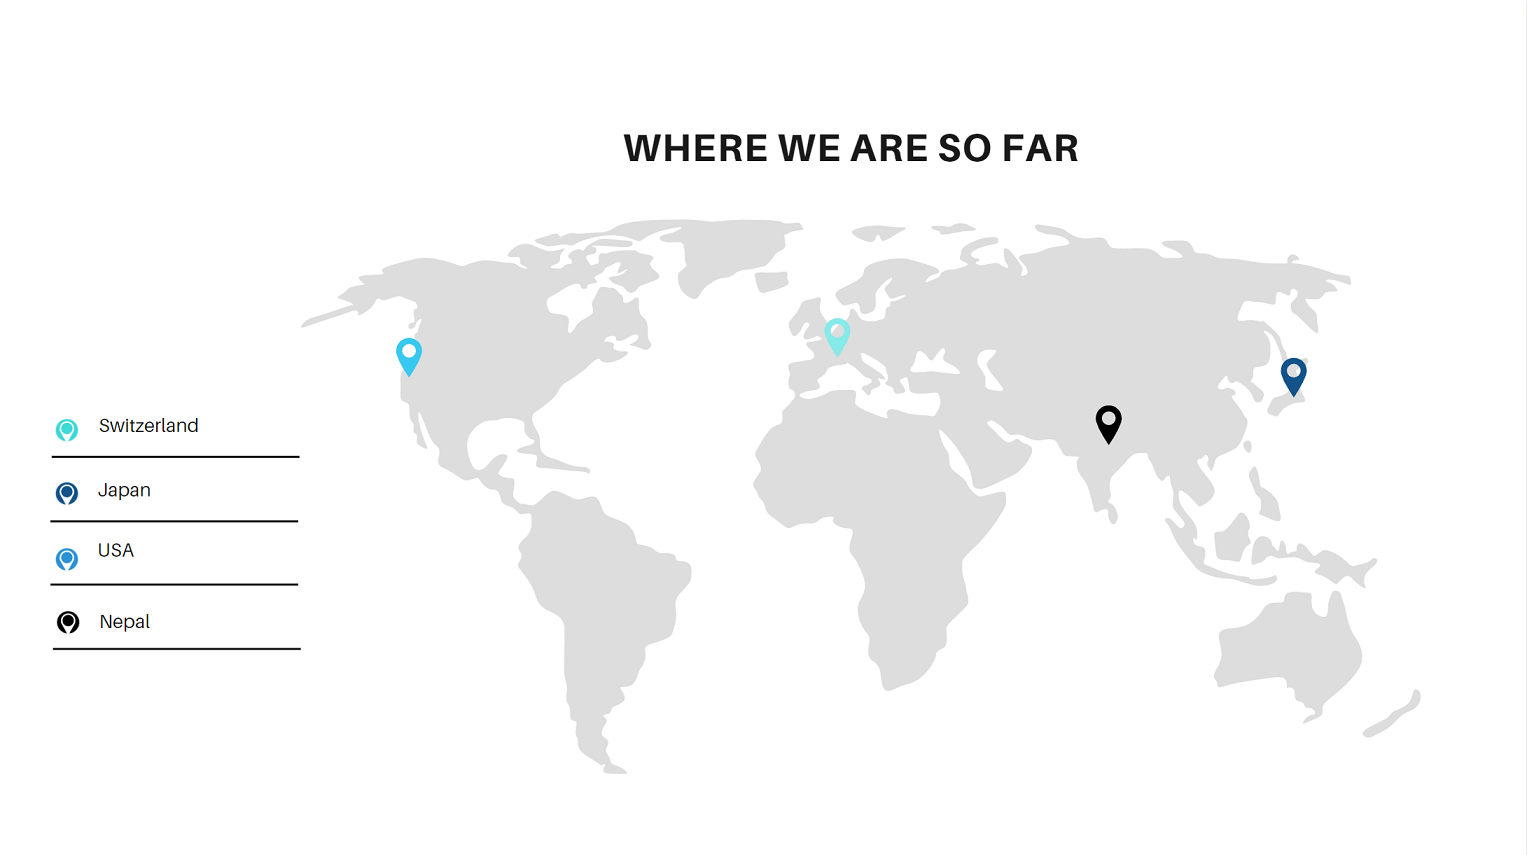
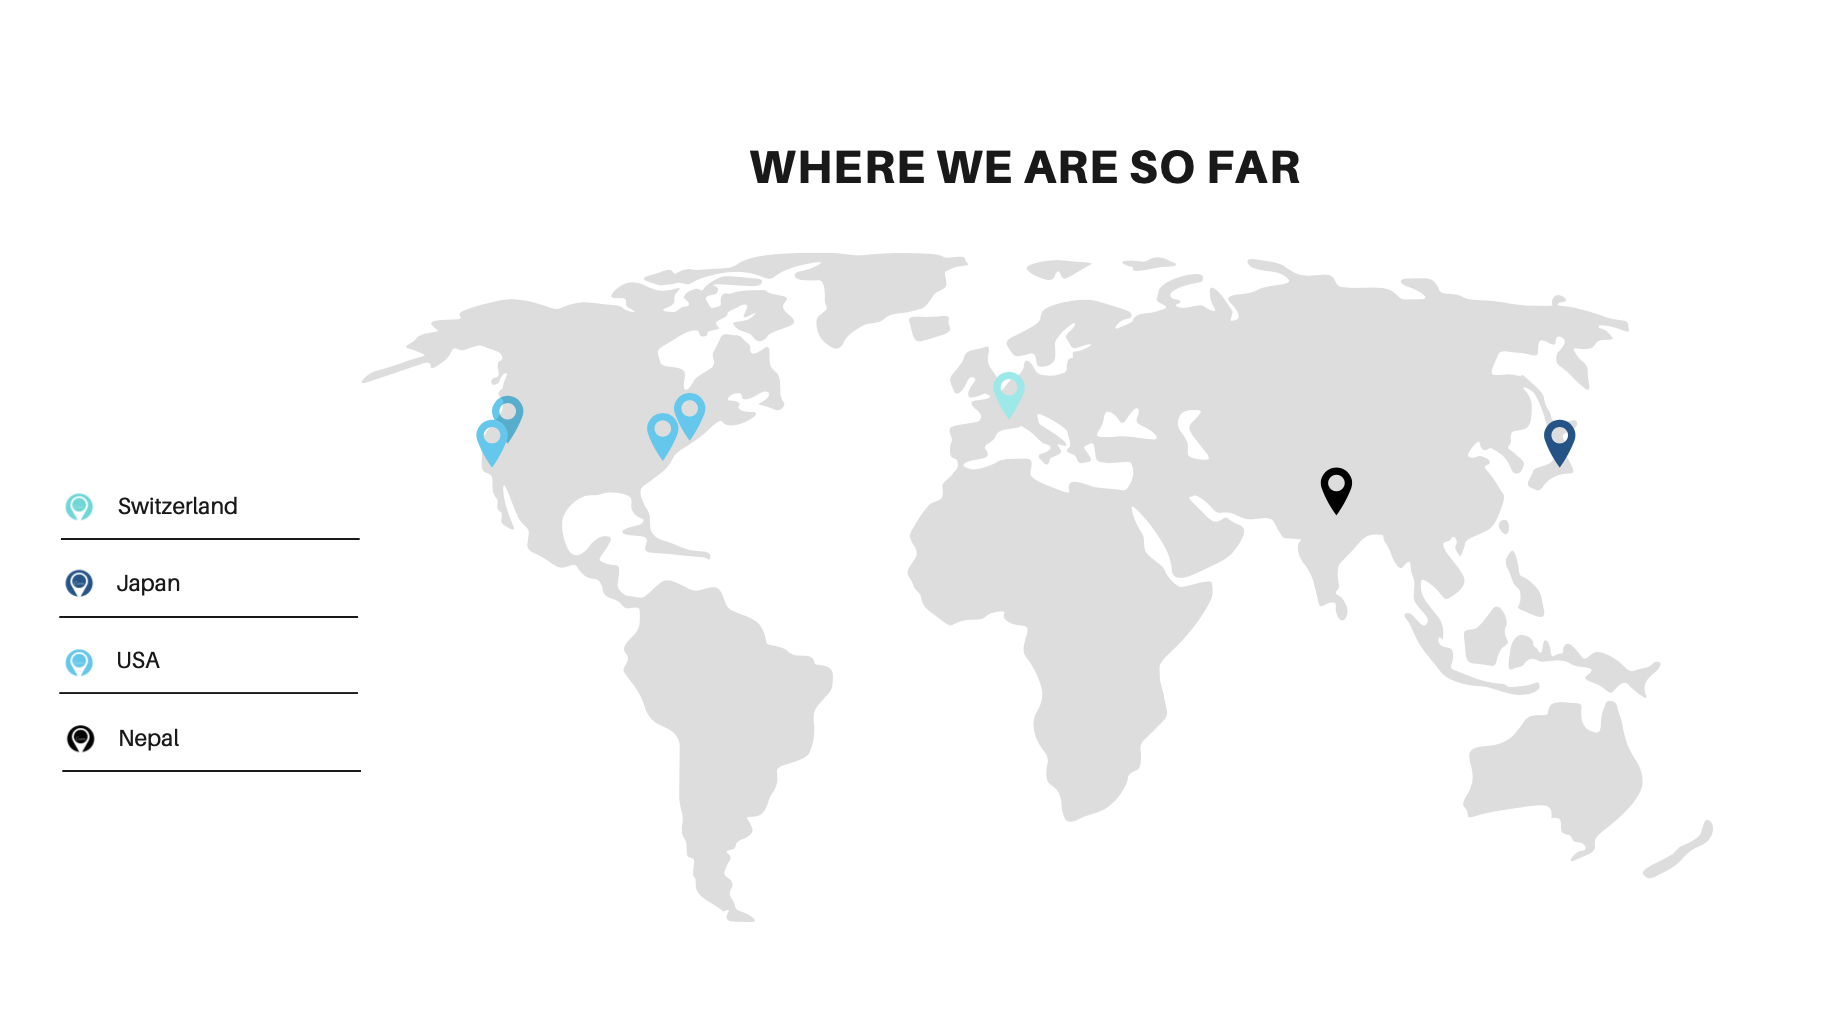
Added new map img

diff --git a/index.html b/index.html
@@ -213,7 +213,7 @@
 
 	<!--Where we are so far-->
 	<section class="align-center">
-		<img src="images/map-loc.png" class="virufy-image" alt="Where we are so far">
+		<img src="images/map-updated.png" class="virufy-image" alt="Where we are so far">
 	</section>
 
 	<!-- Footer -->
